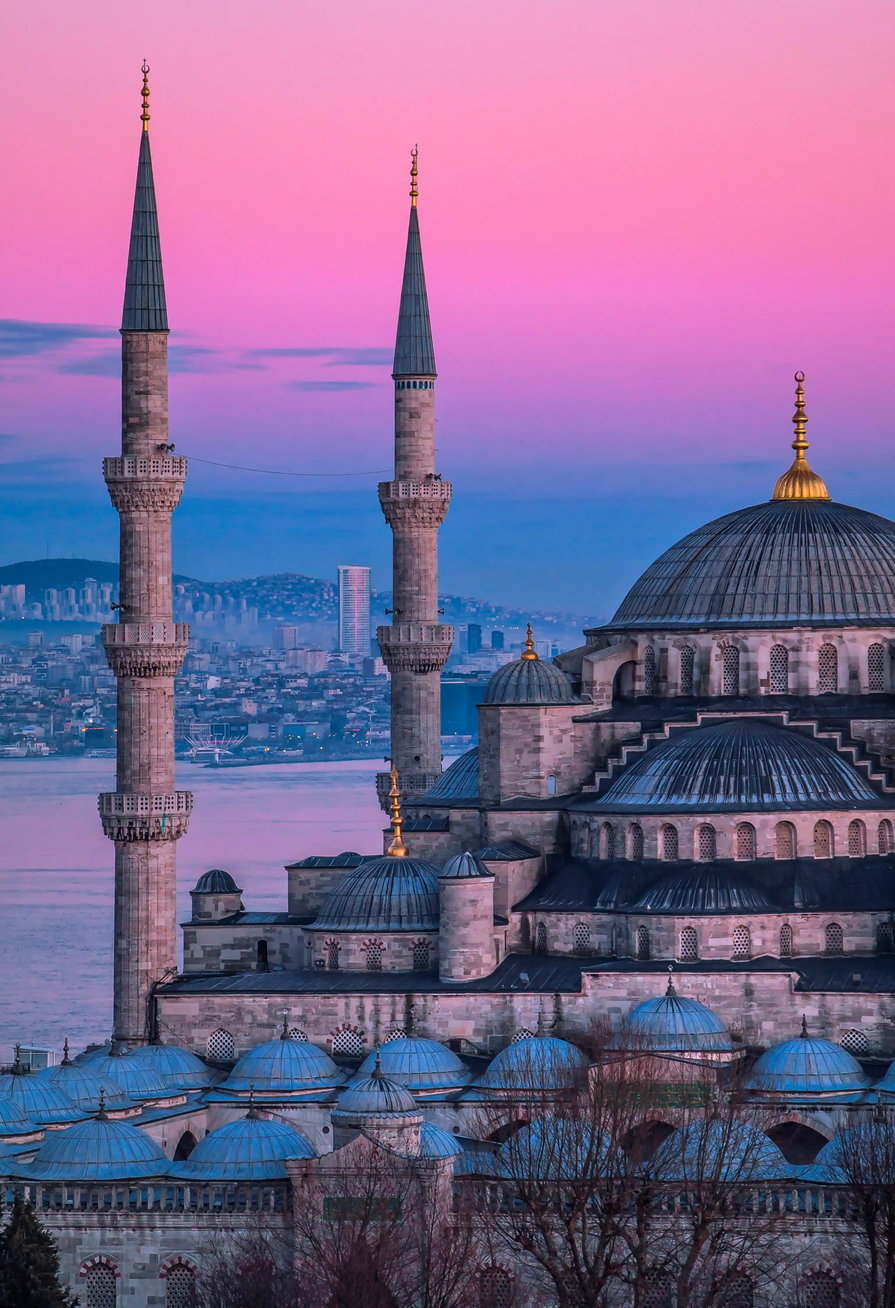
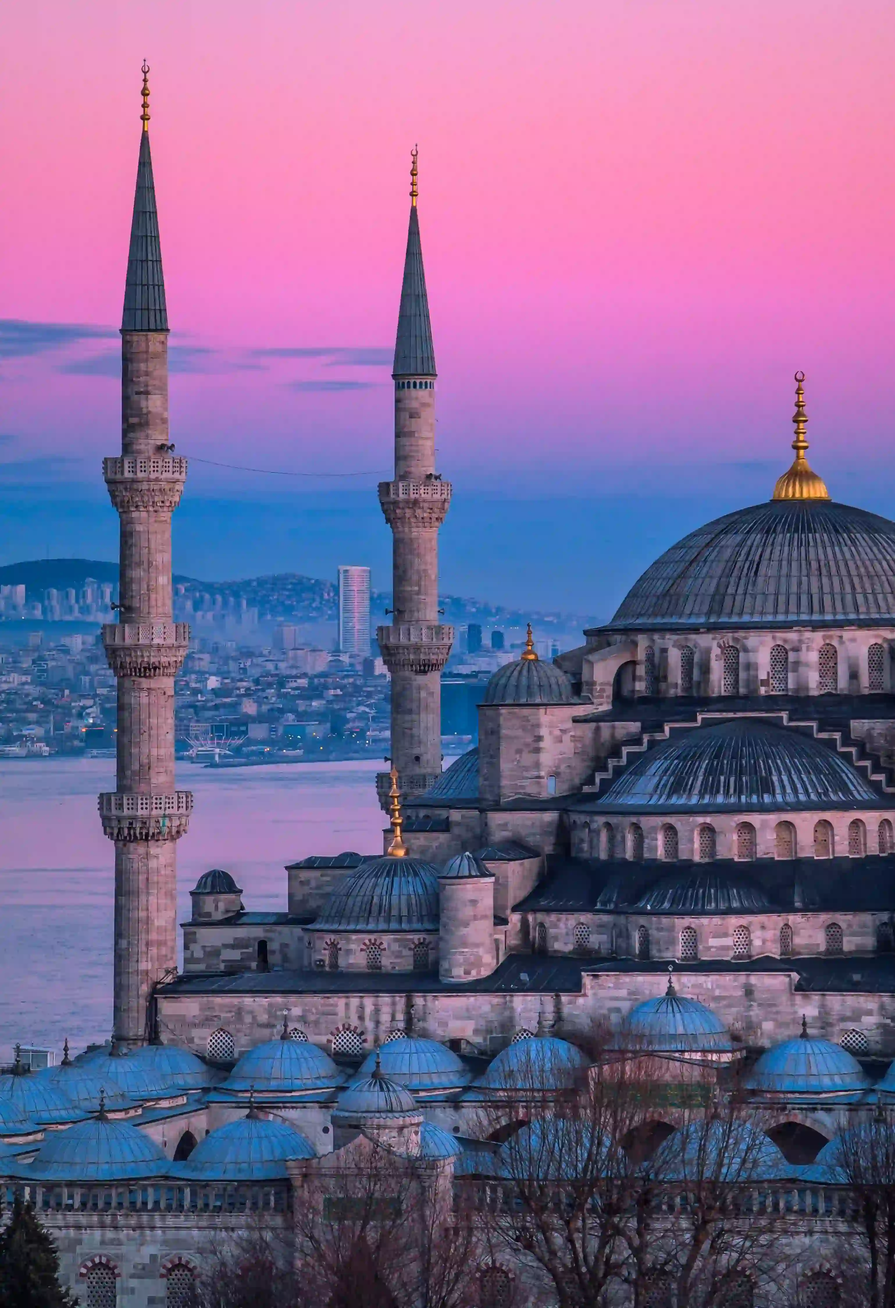
Convert images to WebP and update refs
Replace PNG/JPG banner and hero images with WebP assets and update HTML references accordingly to improve performance. Added new WebP banner files in img/, replaced the Sigiriya JPG with a WebP version, and updated multiple destination-images binaries. Also added an alt attribute and lazy loading to the budget-top image.

diff --git a/budget-planner.html b/budget-planner.html
@@ -37,7 +37,7 @@
 
     <main>
         <!-- ===== Banner Section ===== -->
-        <section class="page-banner" style="--banner-img:url('img/banner-image-2.png');">
+        <section class="page-banner" style="--banner-img:url('img/banner-image-2.webp');">
             <div class="banner-overlay"></div>
 
             <div class="banner-content">
@@ -54,7 +54,7 @@
                 <p>Plan your trip budget and manage your expenses effectively.</p>
             </div>
             <div class="header-image">
-                <img src="img/budget-top.png" alt="">
+                <img src="img/budget-top.png" alt="Budget Planner Header Image" loading="lazy">
             </div>
         </section>
 

diff --git a/index.html b/index.html
@@ -65,7 +65,7 @@
             <div class="hero-image">
                 <img
                     id="hero-image"
-                    src="img/must_visit_places_sri_lanka_sigiriya.jpg"
+                    src="img/must_visit_places_sri_lanka_sigiriya.webp"
                     alt="Sigiriya, Sri Lanka"
                     width="600"
                     height="400">

diff --git a/destination.html b/destination.html
@@ -37,7 +37,7 @@
 
     <main>
         <!-- ===== Banner Section ===== -->
-        <section class="page-banner" style="--banner-img:url('img/banner-image-1.png');">
+        <section class="page-banner" style="--banner-img:url('img/banner-image-1.webp');">
             <div class="banner-overlay"></div>
 
             <div class="banner-content">

diff --git a/support.html b/support.html
@@ -37,7 +37,7 @@
 
     <main>
         <!-- ===== Banner Section ===== -->
-        <section class="page-banner" style="--banner-img:url('img/banner-image-5.png');">
+        <section class="page-banner" style="--banner-img:url('img/banner-image-5.webp');">
             <div class="banner-overlay"></div>
 
             <div class="banner-content">

diff --git a/trip-generator.html b/trip-generator.html
@@ -38,7 +38,7 @@
 
     <main>
         <!-- ===== Banner Section ===== -->
-        <section class="page-banner" style="--banner-img:url('img/banner-image-3.png');">
+        <section class="page-banner" style="--banner-img:url('img/banner-image-3.webp');">
             <div class="banner-overlay"></div>
 
             <div class="banner-content">

diff --git a/travel-mood.html b/travel-mood.html
@@ -38,7 +38,7 @@
 
     <main>
 
-        <section class="page-banner" style="--banner-img:url('img/banner-image-4.png');">
+        <section class="page-banner" style="--banner-img:url('img/banner-image-4.webp');">
             <div class="banner-overlay"></div>
 
             <div class="banner-content">
